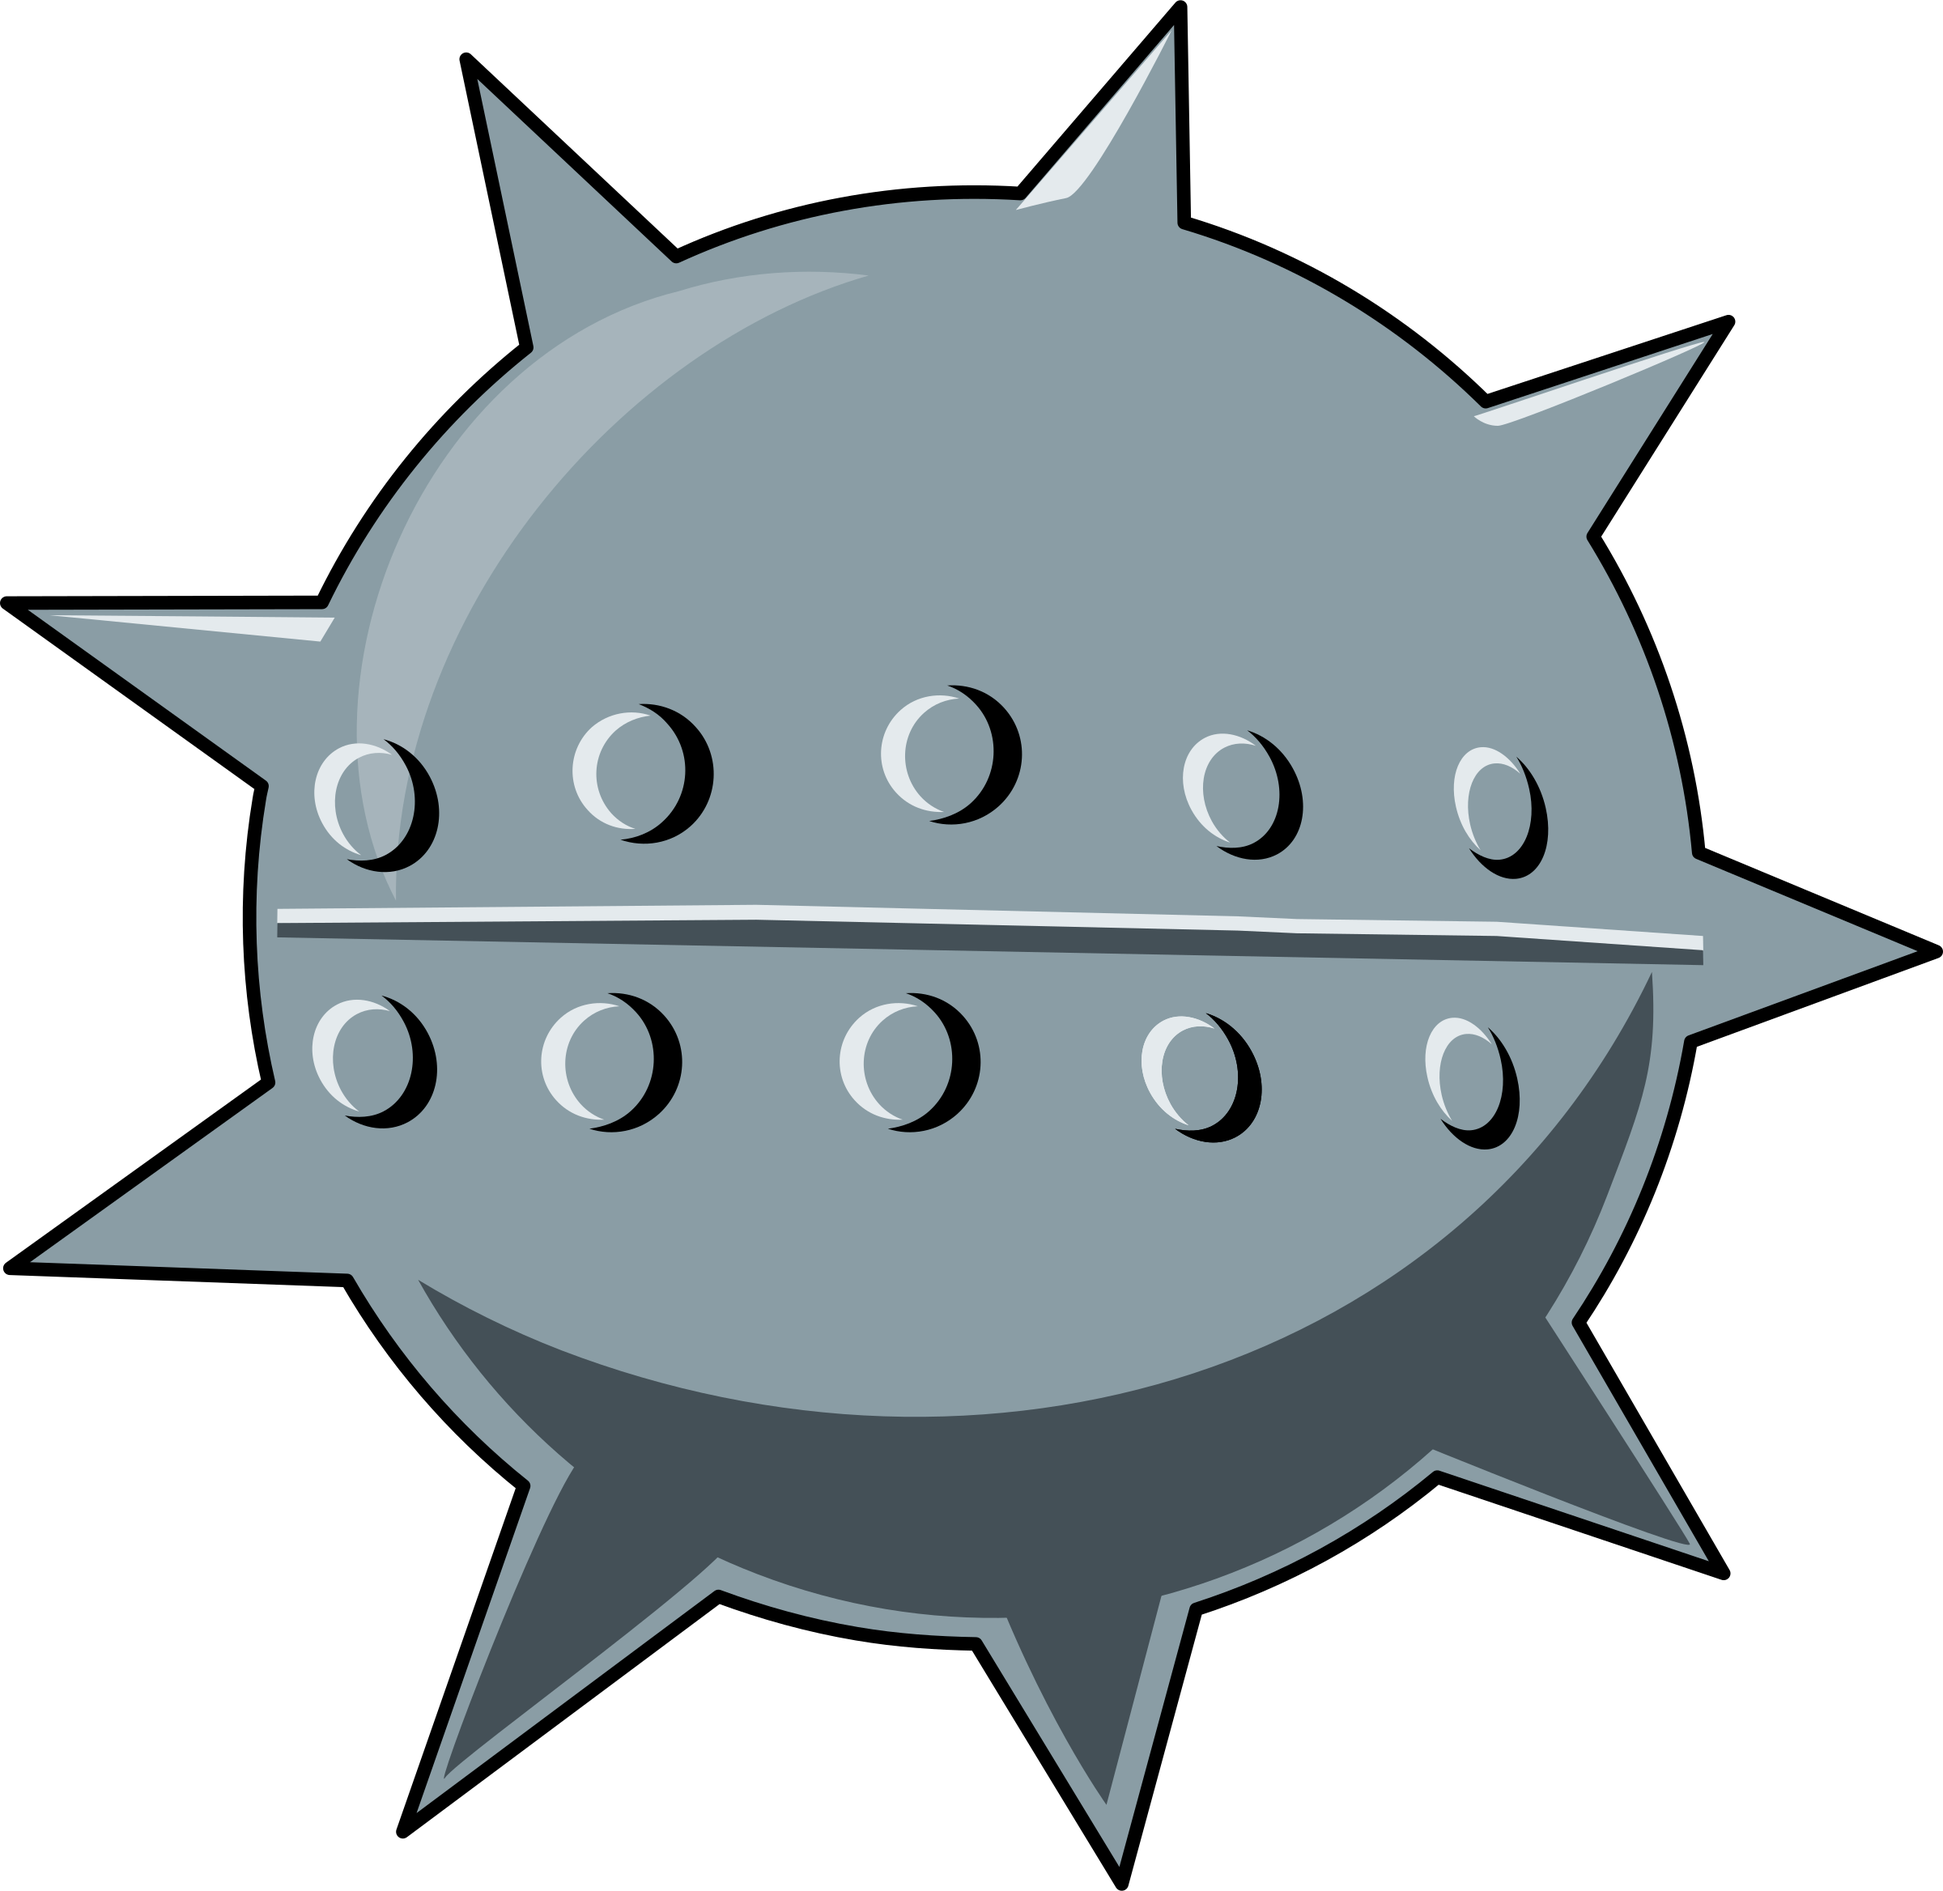
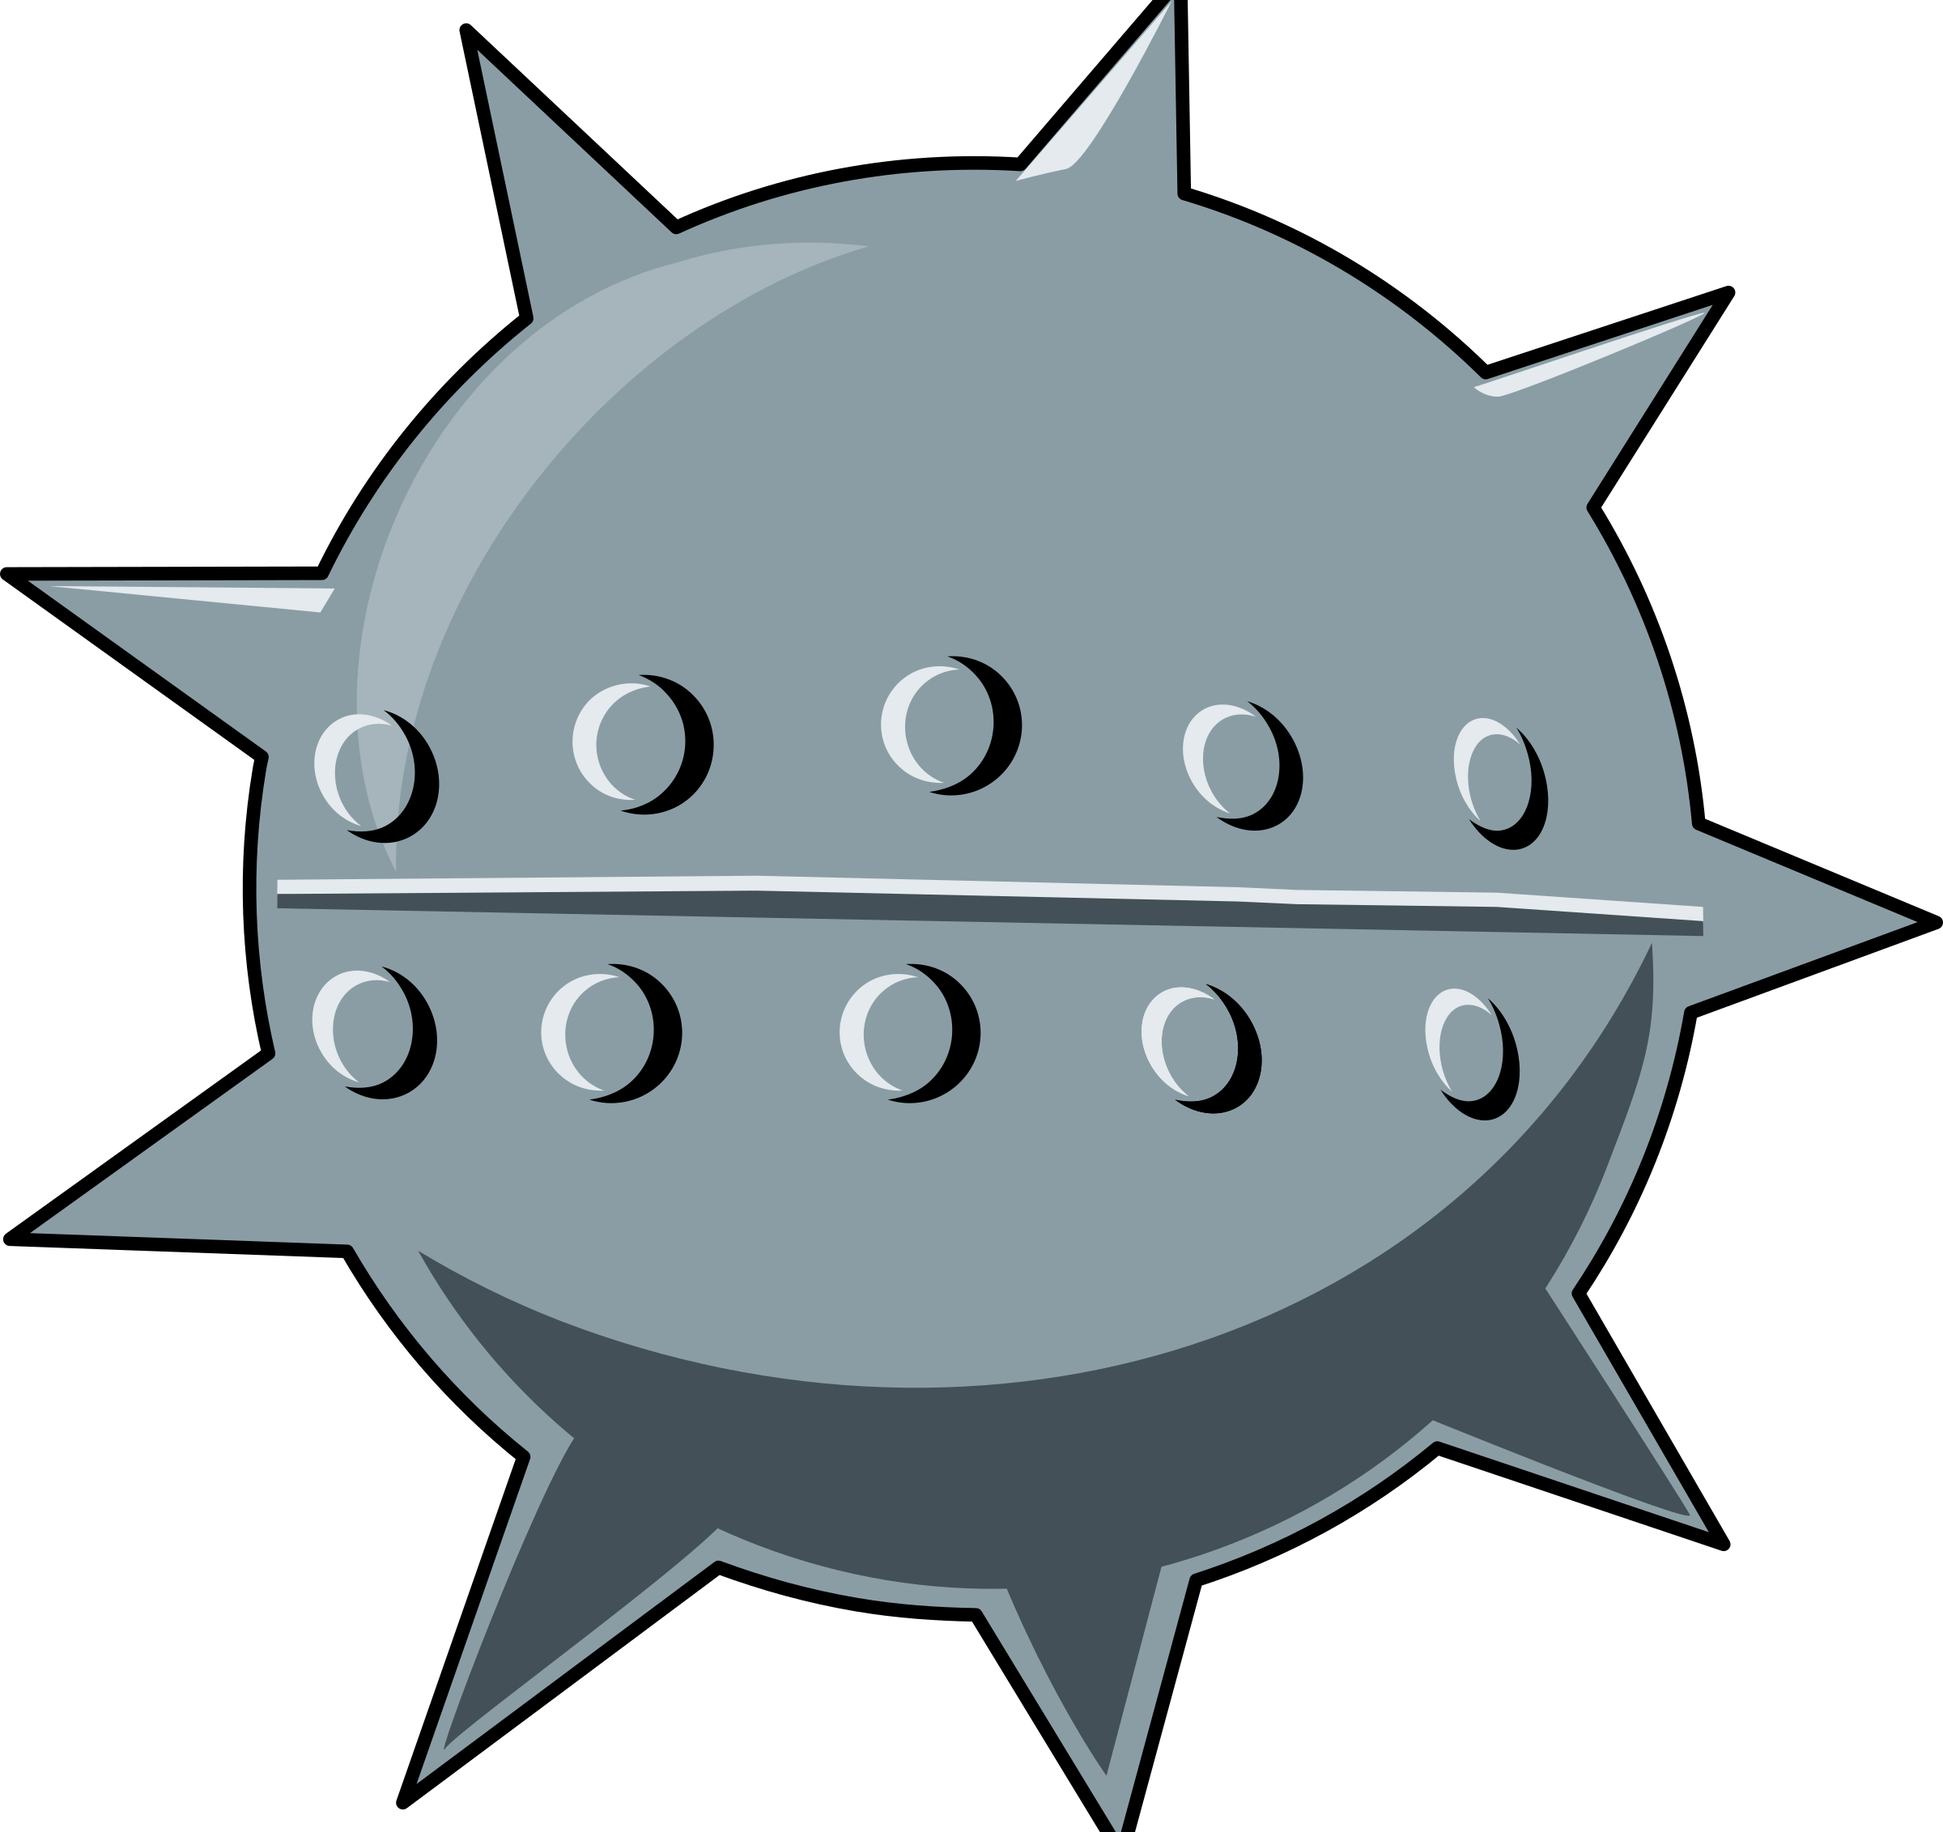
Added mine in level 1 that's less frequent

diff --git a/final.py b/final.py
@@ -100,13 +100,15 @@ if level == 1:
     spike2 = Obstacle(spikeBIMG, .1, 1000, 460)
     spike3 = Obstacle(spikeBIMG, .1, 200, 460)
     spike4 = Obstacle(spikeIMG, .1, 300, 140)
-    
+    mine1 = Obstacle(mineIMG, .03, 2000, 300)
+
     sprite_group = pygame.sprite.Group()
     sprite_group.add(ship)
     sprite_group.add(spike1)
     sprite_group.add(spike2)
     sprite_group.add(spike3)
     sprite_group.add(spike4)
+    sprite_group.add(mine1)
     start = time.time()
     win = False
     while True:
@@ -116,7 +118,7 @@ if level == 1:
             if event.type == pygame.QUIT:
                 pygame.quit
                 quit()
-        if timePassed > 60:
+        if timePassed > 50:
             win = True
             break
         stars1.rect.x -= 4
@@ -125,6 +127,7 @@ if level == 1:
         spike2.rect.x -= 4
         spike3.rect.x -= 4
         spike4.rect.x -= 4
+        mine1.rect.x -= 4
         
         if stars1.rect.right < 0:
             stars1.rect.left = stars2.rect.right
@@ -139,6 +142,9 @@ if level == 1:
             spike3.rect.left = random.randint(1000,1400)
         if spike4.rect.right <0:
             spike4.rect.left = random.randint(1000,1400)
+        if mine1.rect.right <0:
+            mine1.rect.left = random.randint(1500,2000)
+            mine1.rect.y = random.randint(200,400)
 
         stars1.draw()
         stars2.draw()
@@ -165,6 +171,9 @@ if level == 1:
             break
         if pygame.sprite.collide_rect(ship, spike4):
             print("Collided with Spike!")
+            break
+        if pygame.sprite.collide_rect(ship, mine1):
+            print("Collided with Mine!")
             break
 
         pygame.display.update()
